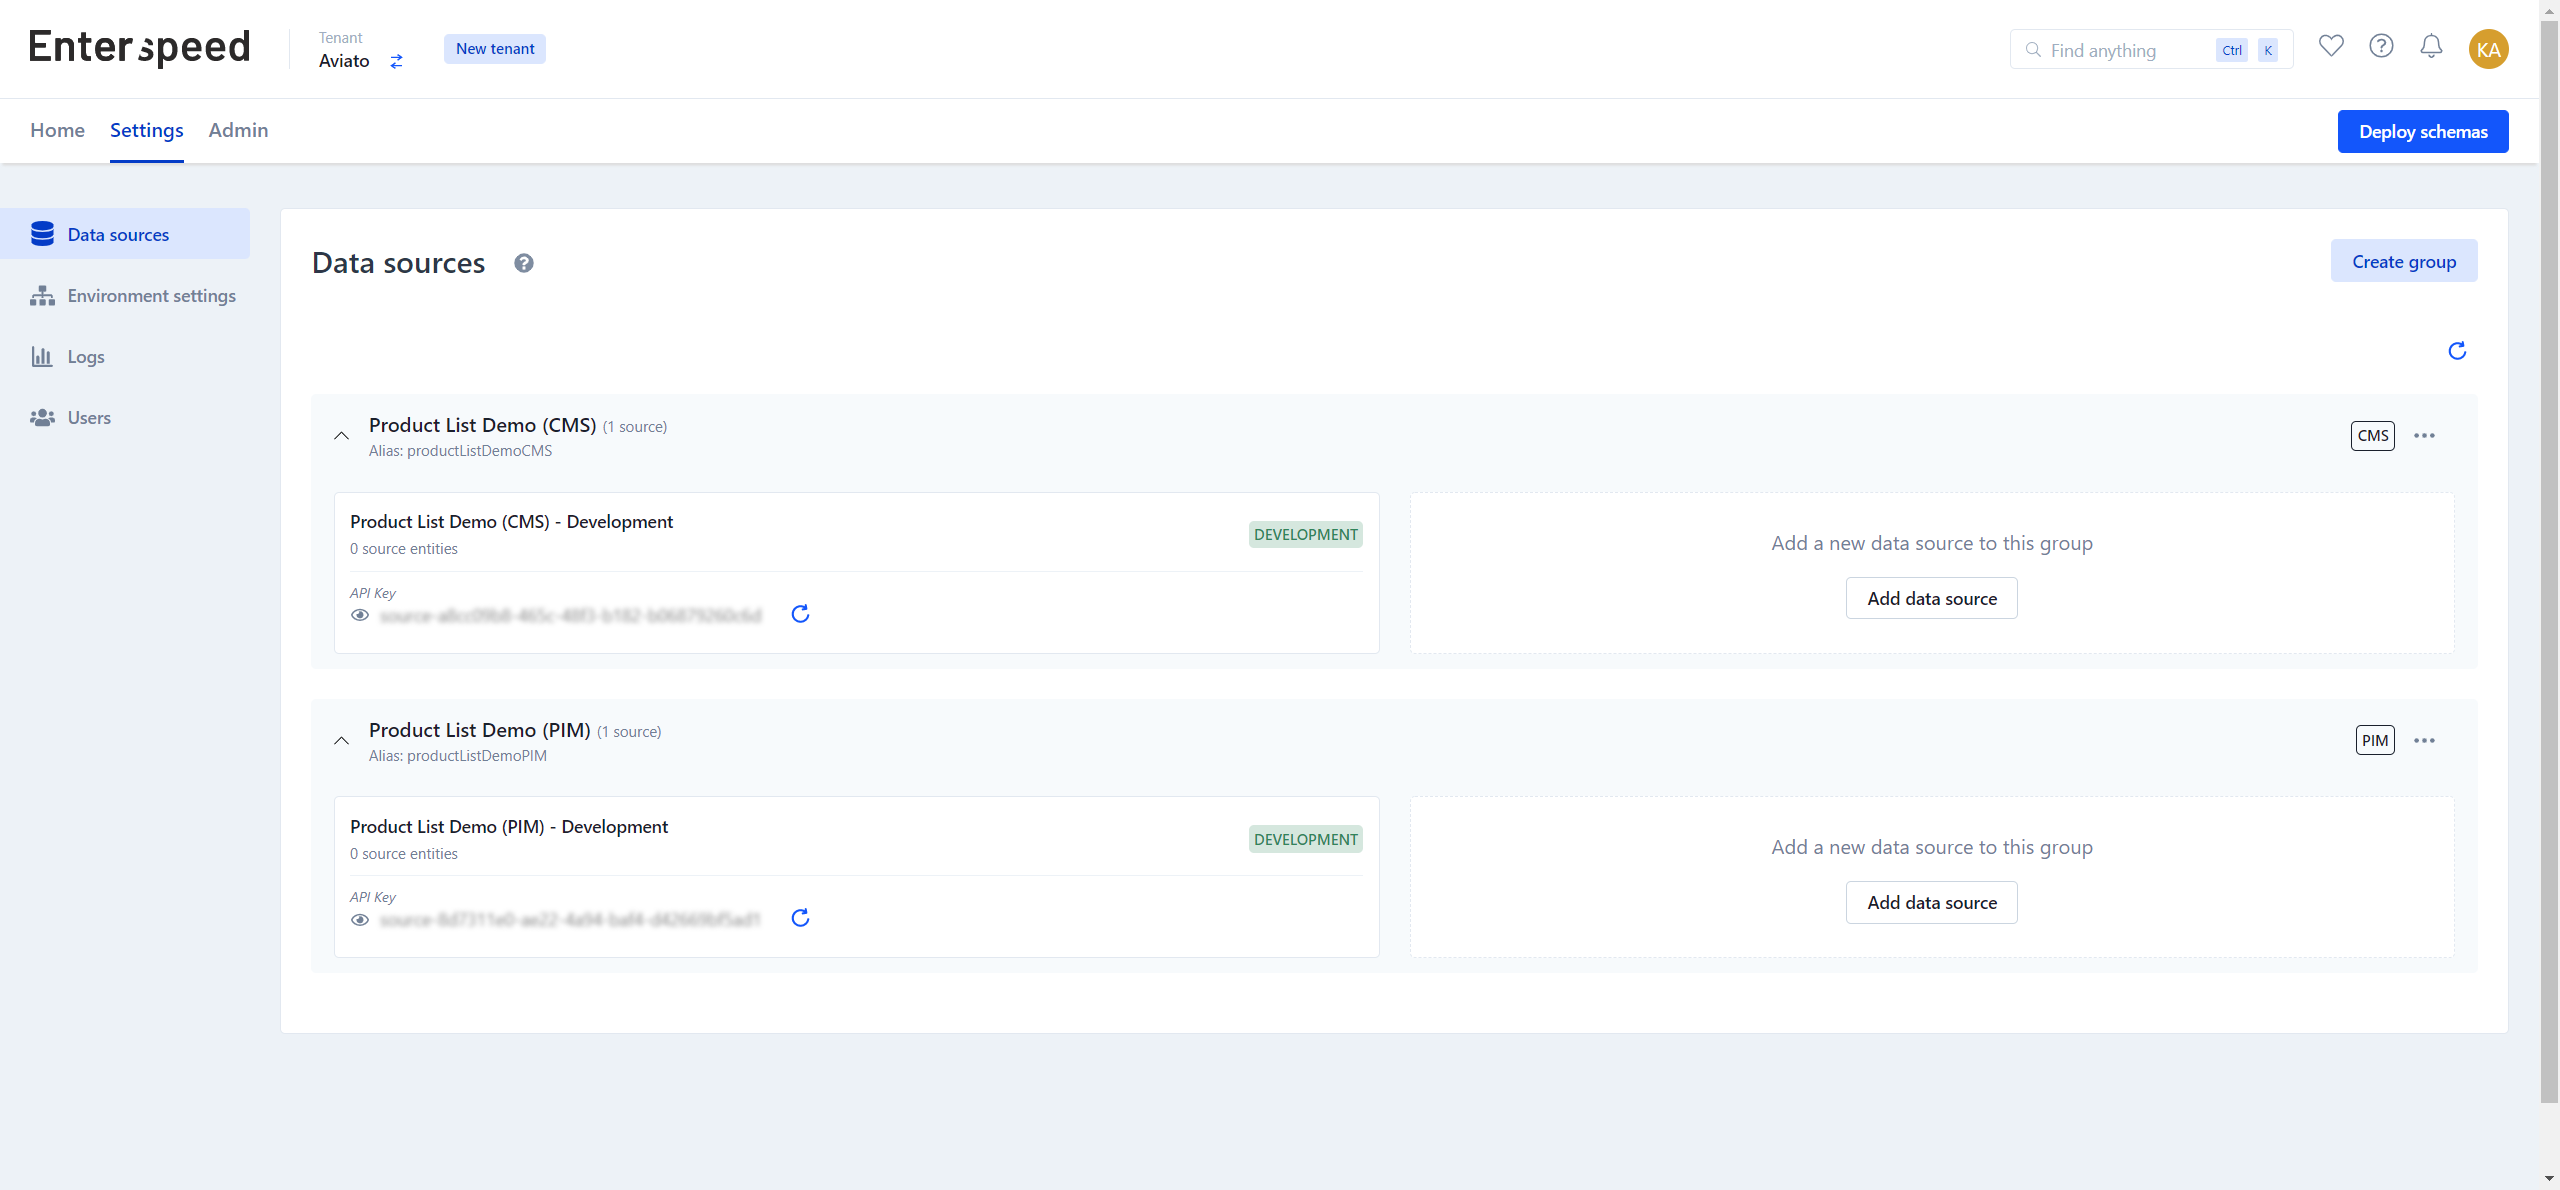
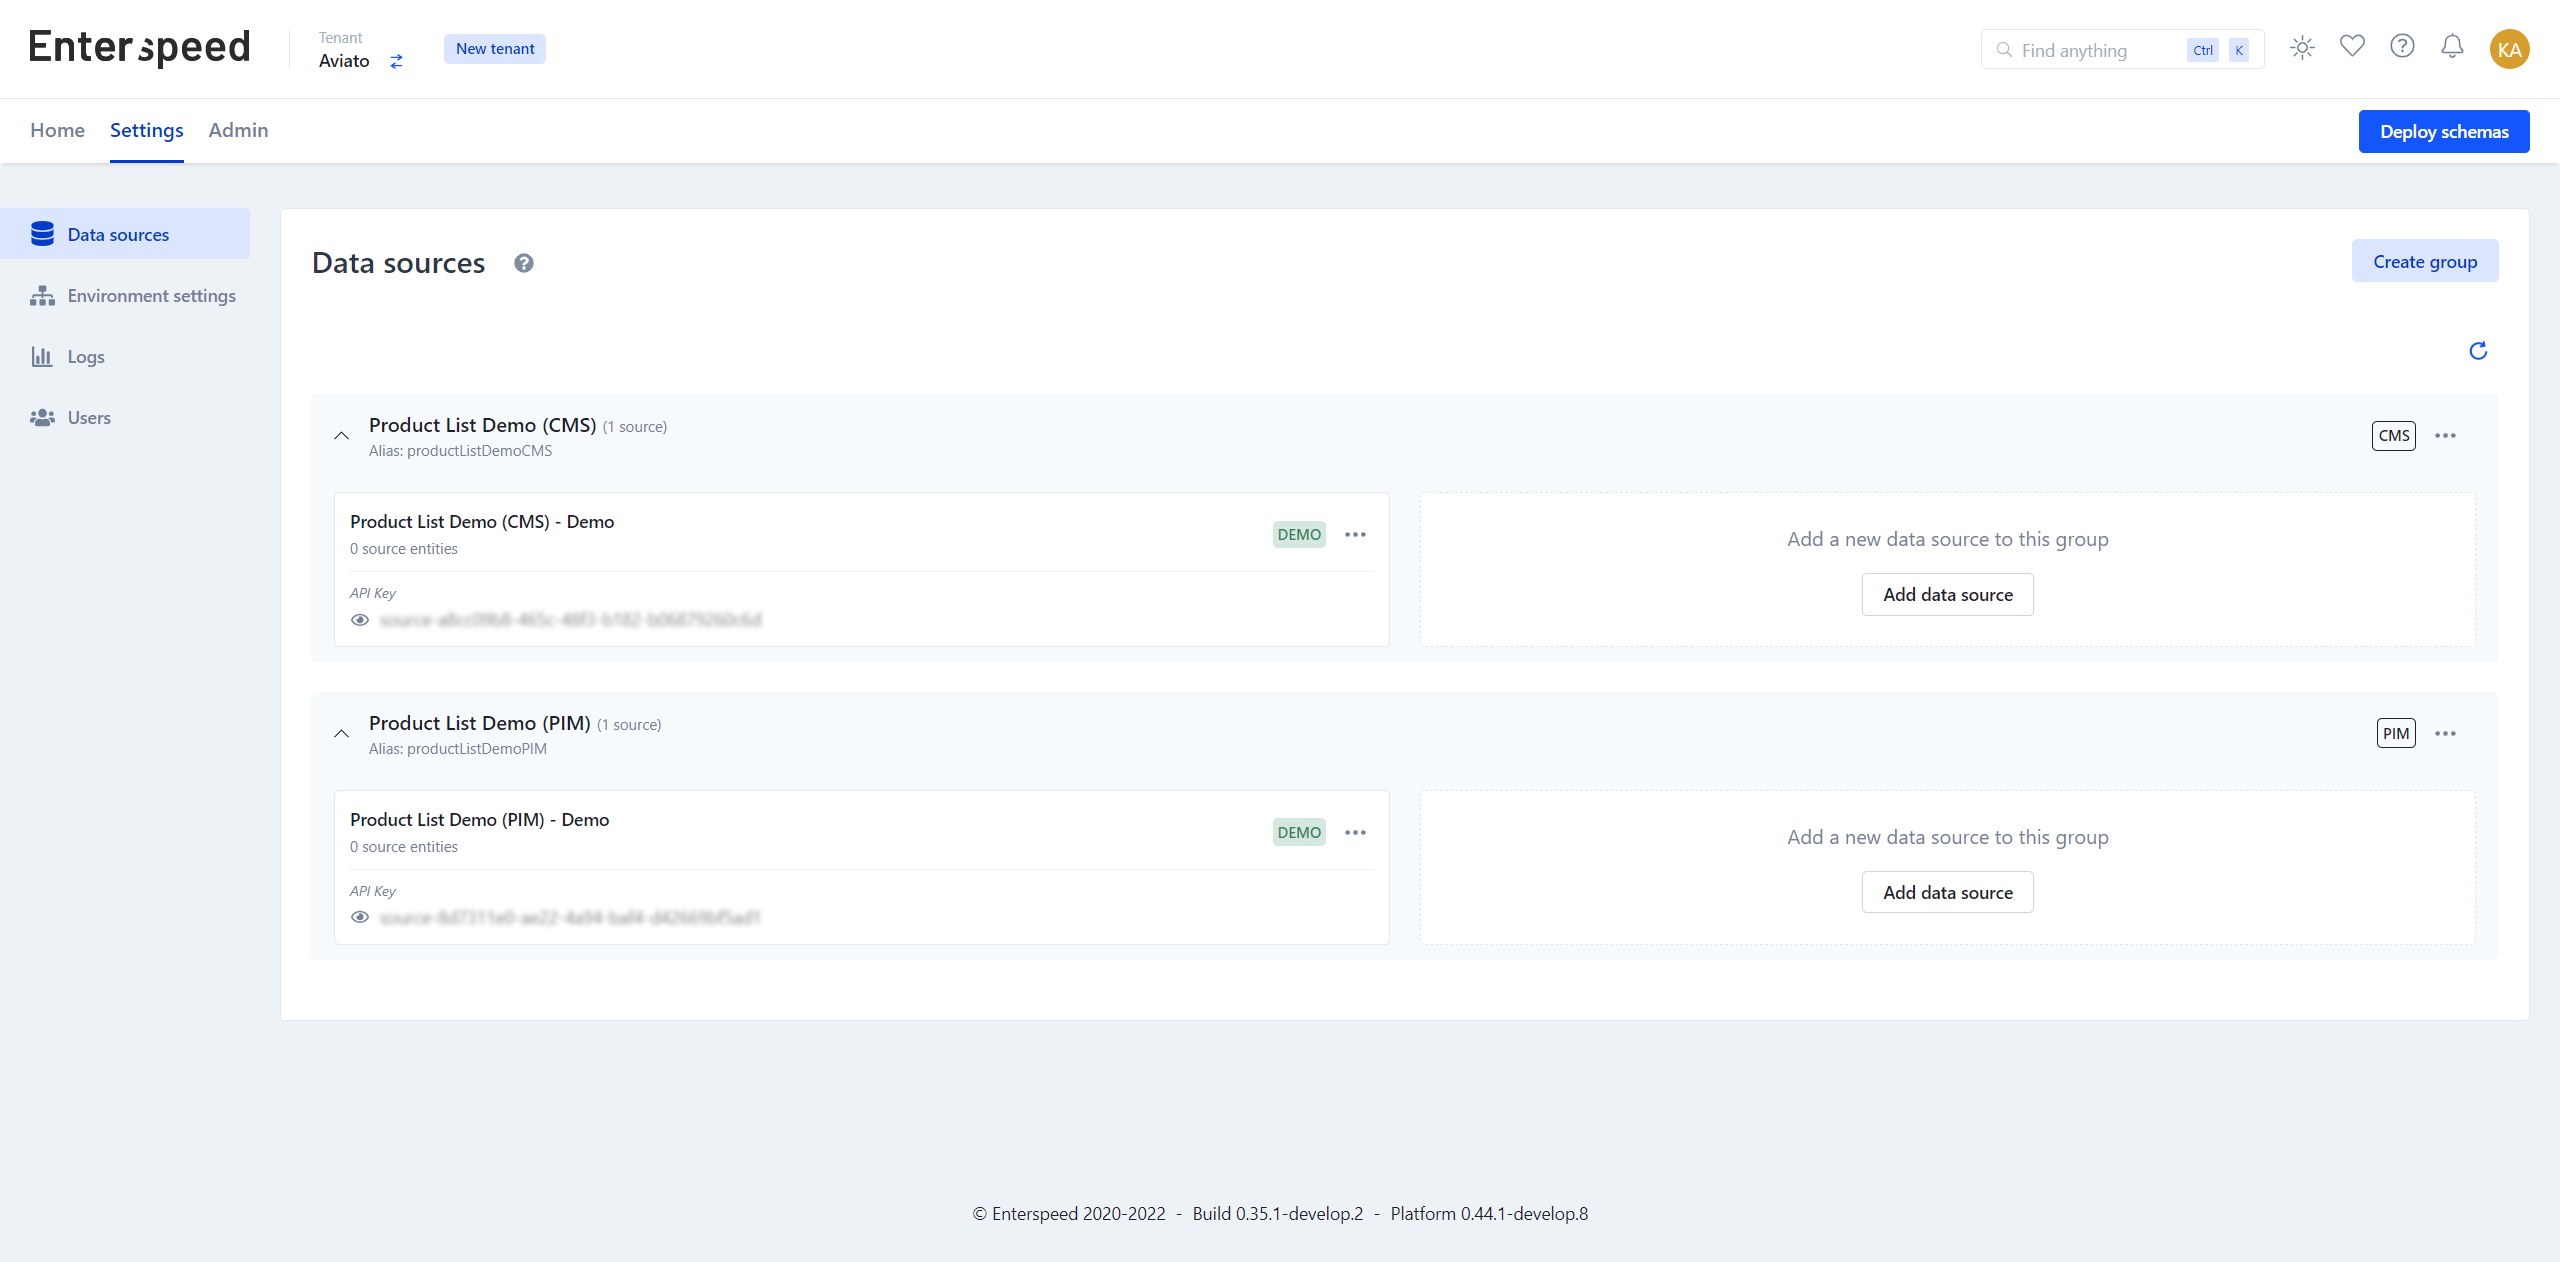
Changed screnshot and fixed missing decription

diff --git a/docs/tutorials/product-list-cms-pim/2-data-sources-environment.md b/docs/tutorials/product-list-cms-pim/2-data-sources-environment.md
@@ -5,18 +5,26 @@ title: 2. Data sources and environment
 
 # Data sources and environment
 
-First off we need to create the required data sources and set up environment settings.
-
-## Data sources
-
-Go to https://app.enterspeed.com/settings/data-sources and create a data source named _Product List Demo (CMS)_ and _Product List Demo (PIM)_.
-
-![Data sources](/img/docs/examples/product-list-cms-pim/product-list-cms-pim-data-sources.png)
+First off we need to set up environment settings and then create the required data sources.
 
 ## Environment settings
 
-Go to https://app.enterspeed.com/settings/environment-settings and create a domain called _localhost_, an Environment client named _Web_ and finally an Environment called _Demo_.
+Go to https://app.enterspeed.com/settings/environment-settings.
+
+Create a domain called _localhost_. Once you have created the domain, click the three dots next to the domain name (settings) and select _Edit hostnames_. Create a hostname called _root.tld_ and click save.
+
+Create an Environment client named _Web_ and select the _localhost_ domain when prompted.
+
+Finally, create an Environment called _Demo_.
 
 You should end up with something like this:
 
 ![Environment settings](/img/docs/examples/product-list-cms-pim/product-list-cms-pim-environment-settings.png)
+
+## Data sources
+
+Go to https://app.enterspeed.com/settings/data-sources and create a data source group named _Product List Demo (CMS)_ and _Product List Demo (PIM)_.
+
+In the _Product List Demo (CMS)_-group created a data source called _Product List Demo (CMS) - DEMO_ and select the _Demo_ environment. For the _Product List Demo (PIM)_-group create a data source called _Product List Demo (PIM) - Demo_ and select the _Demo_ environment.
+
+![Data sources](/img/docs/examples/product-list-cms-pim/product-list-cms-pim-data-sources.png)
